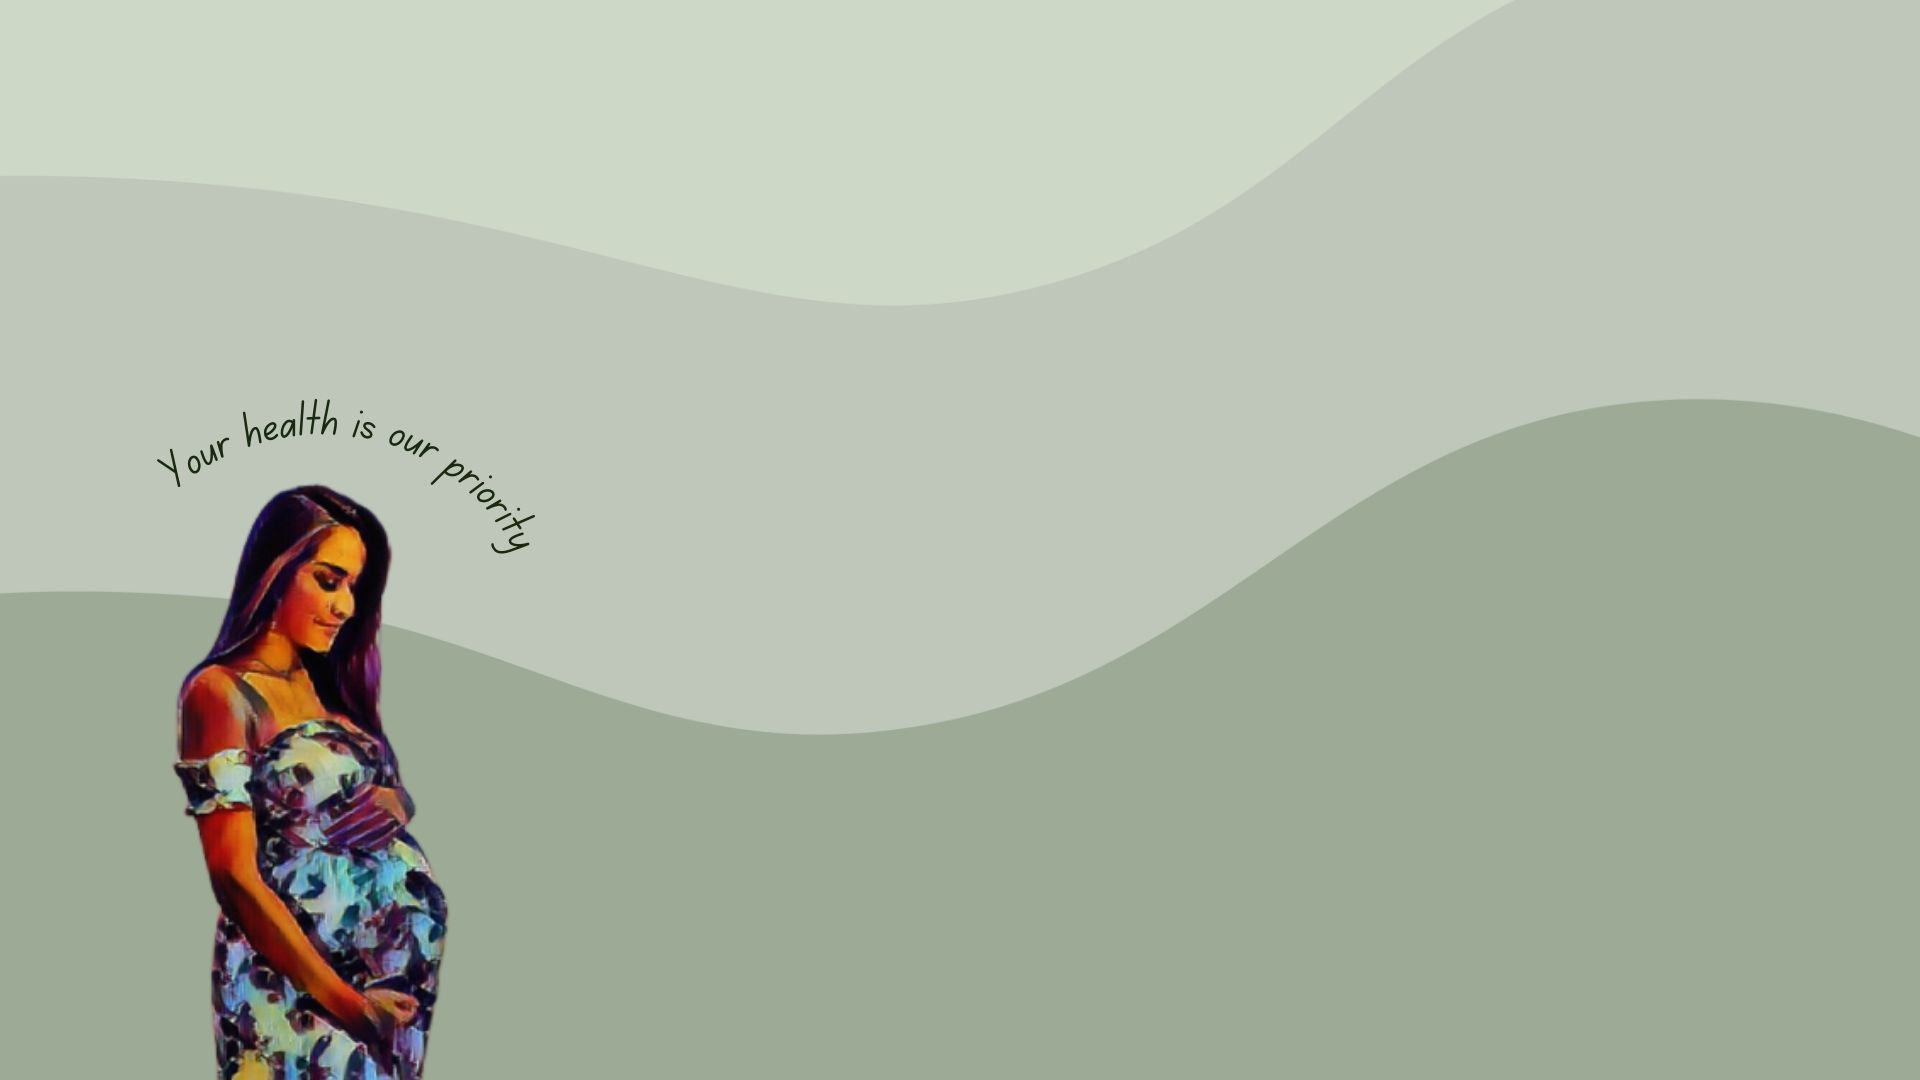
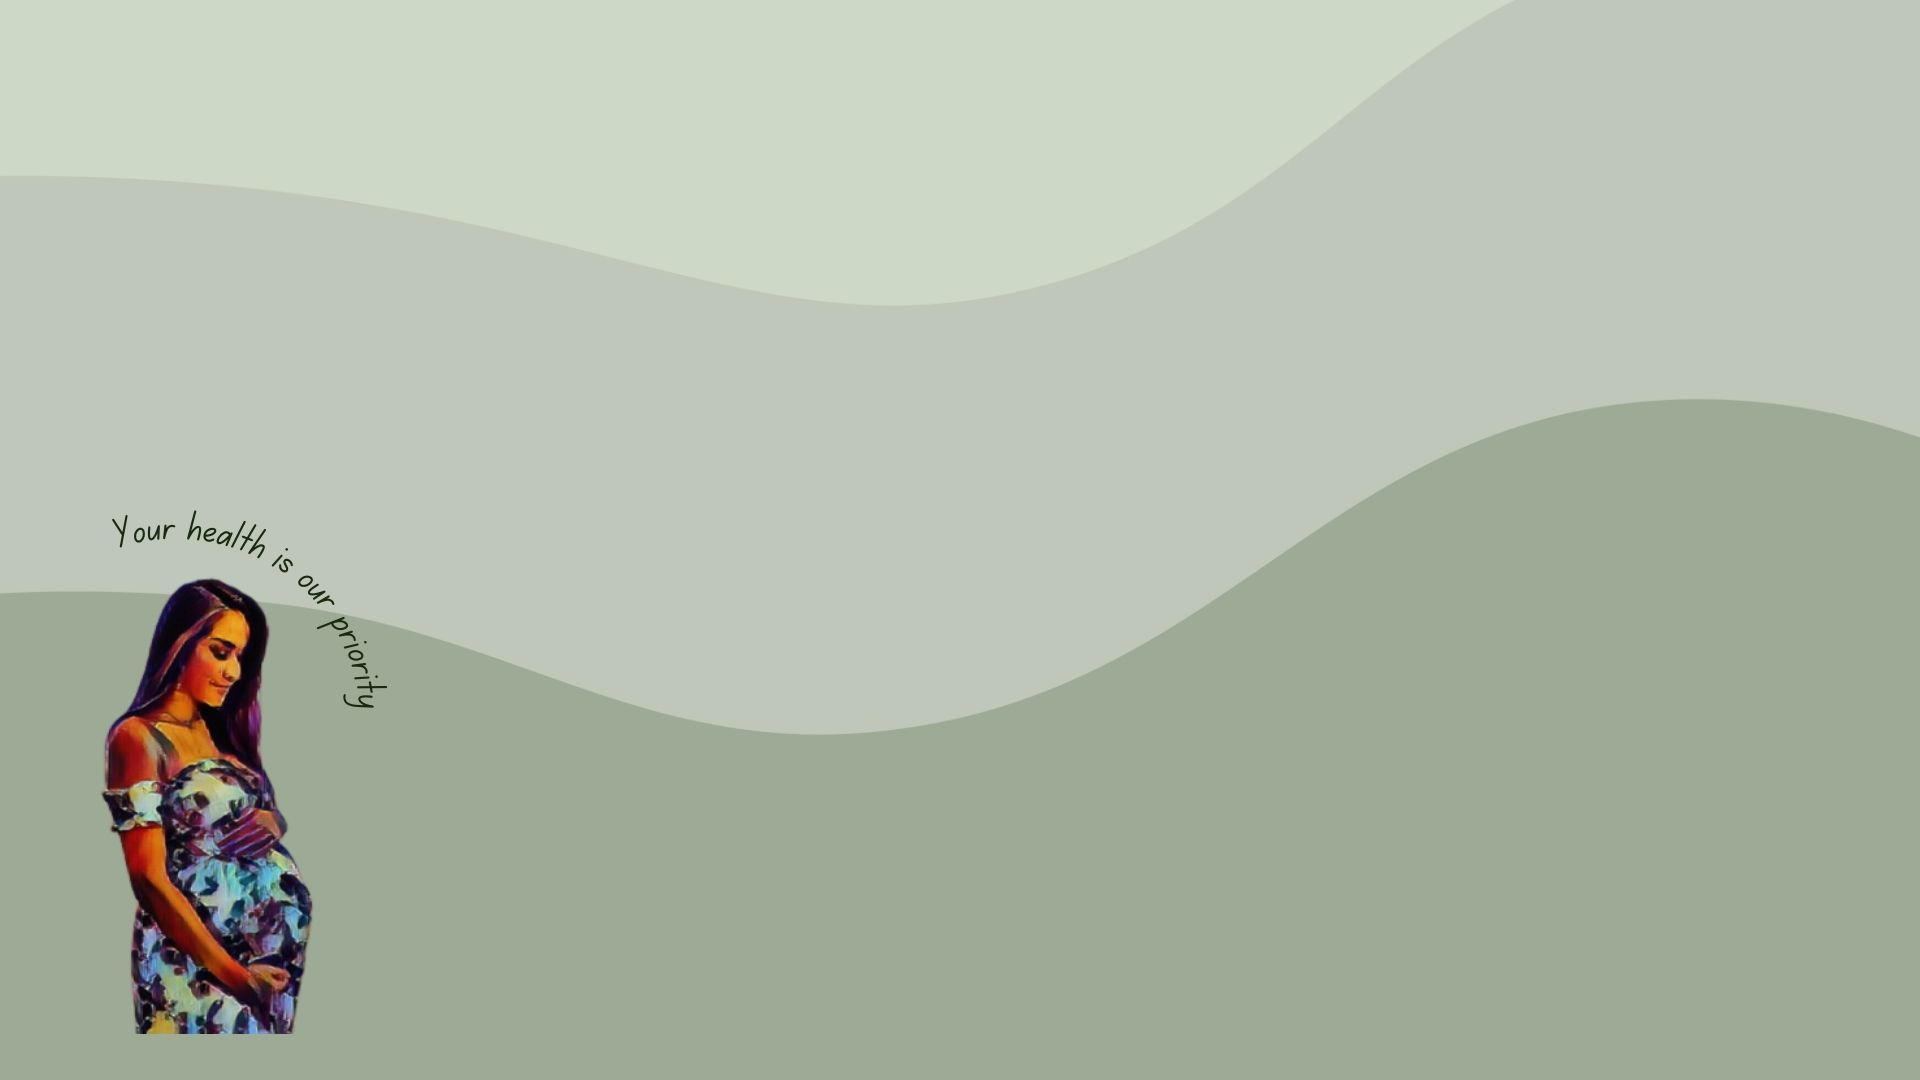
minor fixes

diff --git a/index/templates/main.html b/index/templates/main.html
@@ -10,7 +10,7 @@
     <!-- Add icon library -->
     <link rel="stylesheet" href="https://cdnjs.cloudflare.com/ajax/libs/font-awesome/4.7.0/css/font-awesome.min.css">
 </head>
-<body style="background-image: url({{ url_for('static', filename='images/background.jpg') }}); background-size: cover; background-repeat: no-repeat; background-position: center center;">
+<body style="background-image: url({{ url_for('static', filename='images/background.jpg') }}); background-size: cover;">
   <nav class="navbar navbar-expand-lg navbar-dark bg-dark">
 		<a style="font-size: 45px; font-style:normal; font-family: serif; color: rgb(163, 233, 72);" class="navbar-brand" href="/">Momma</a>
     <button class="navbar-toggler" type="button" data-toggle="collapse" data-target="#navbarSupportedContent" aria-controls="navbarSupportedContent" aria-expanded="false" aria-label="Toggle navigation">
